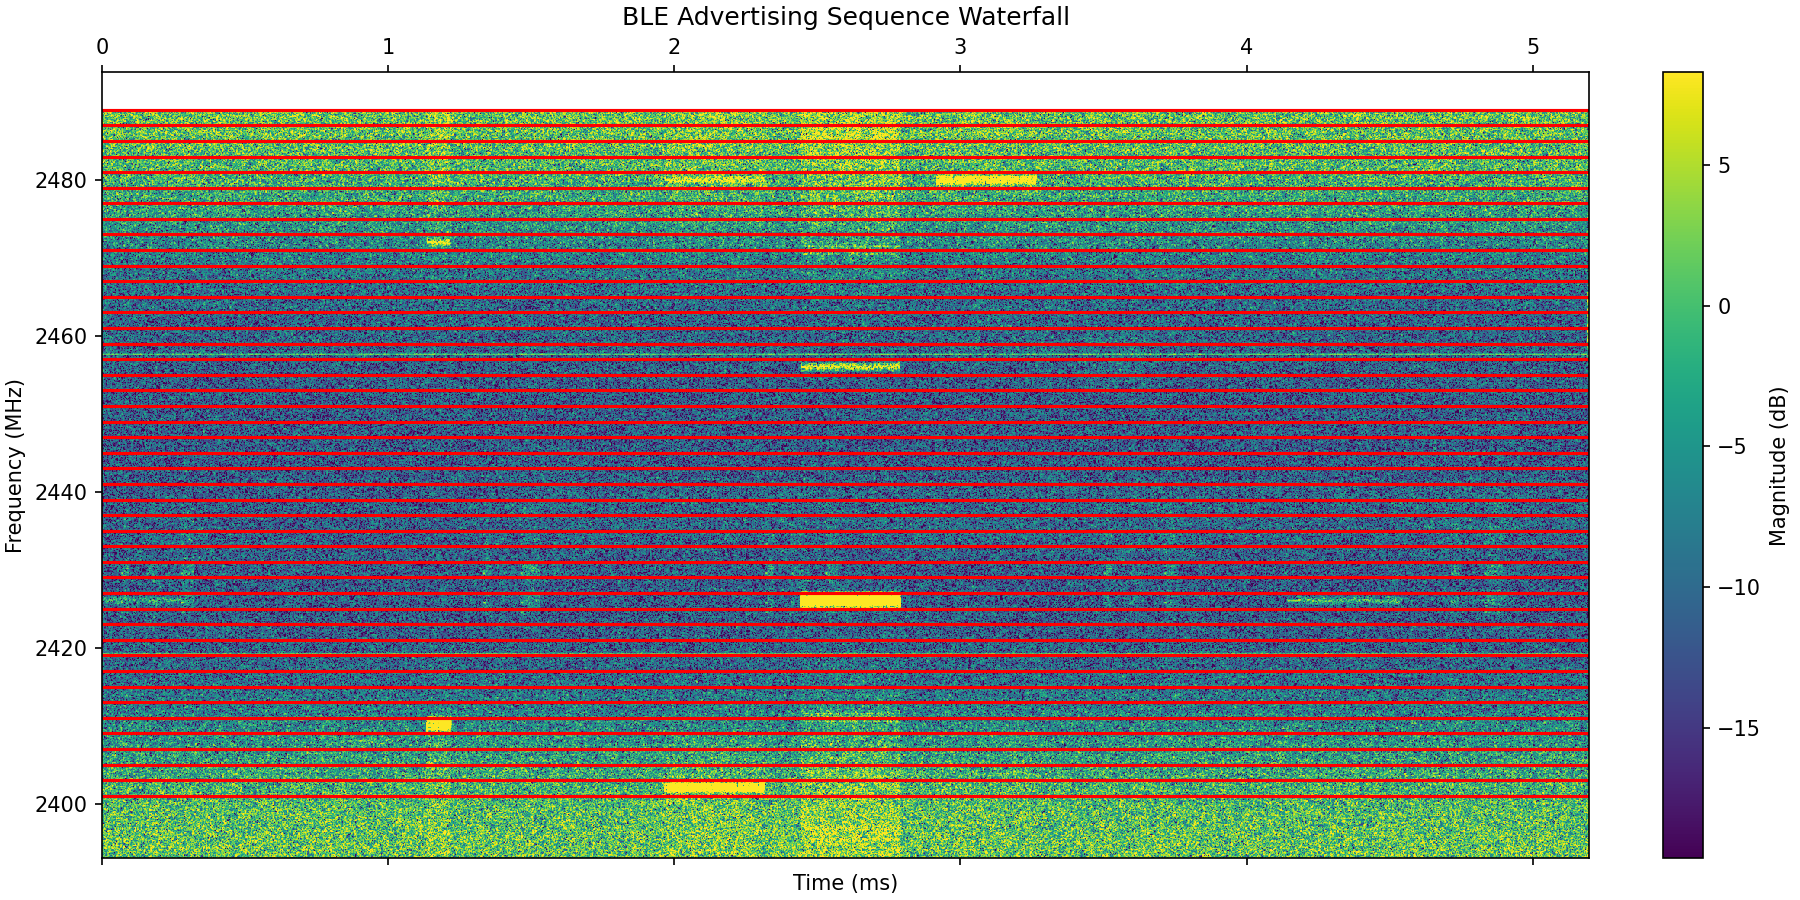
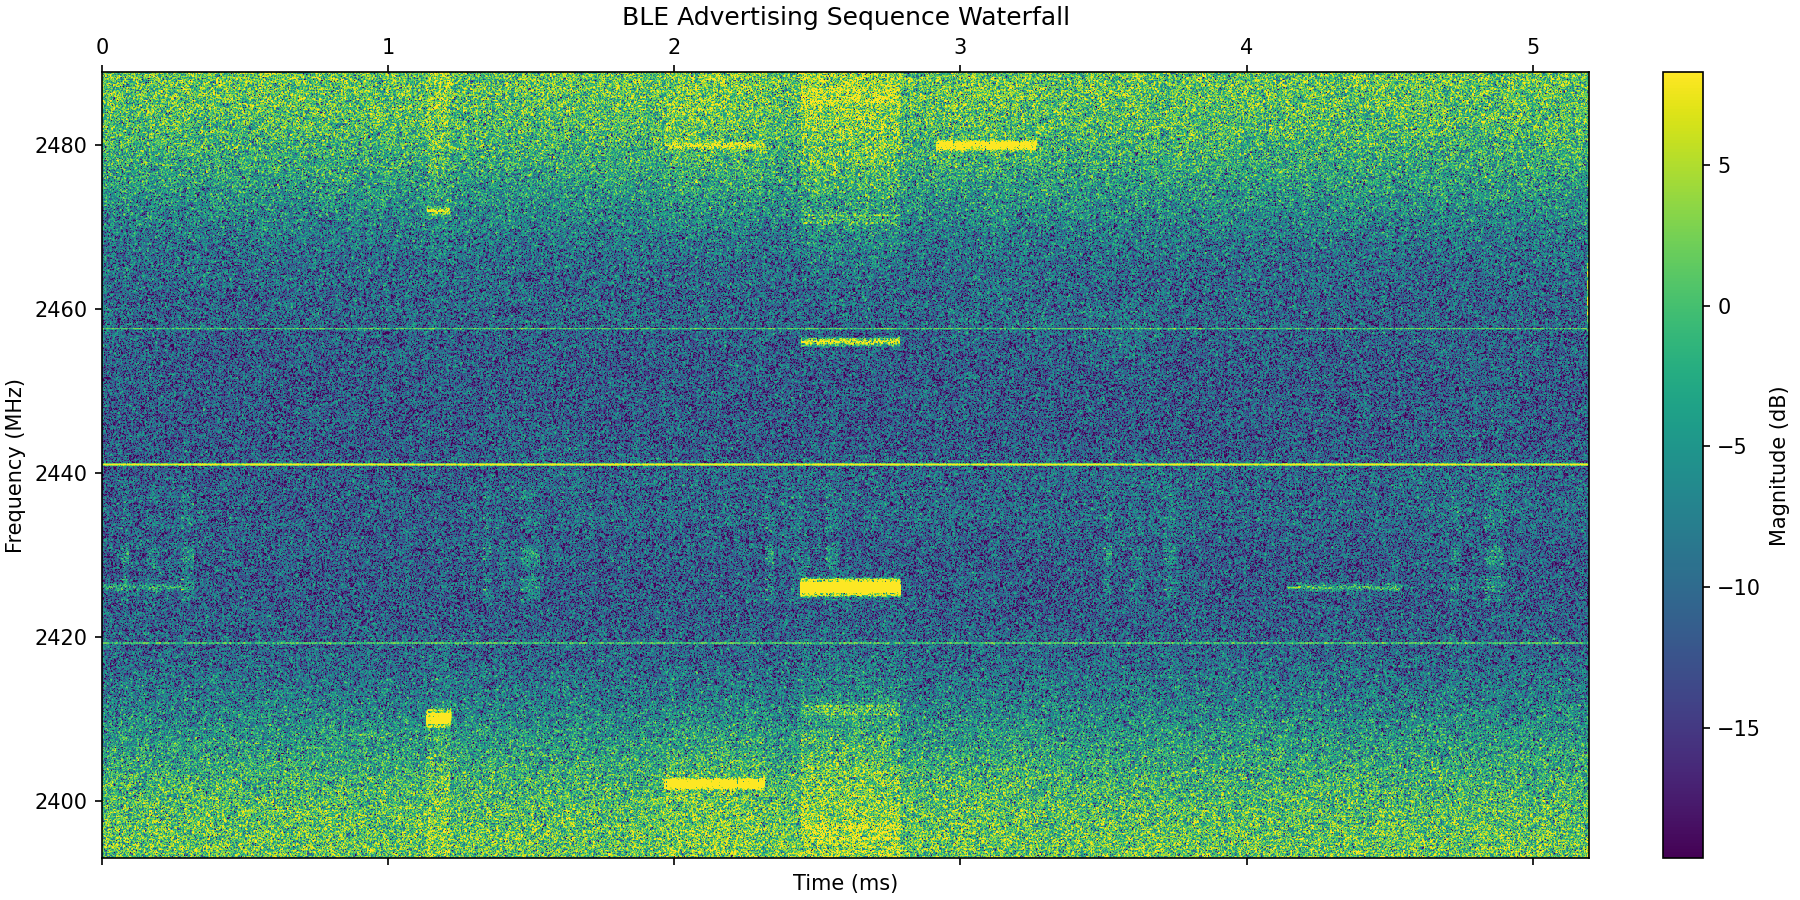
IQ imprefection.

diff --git a/_drafts/2026-02-08-Polyphase-Filter-Banks.md b/_drafts/2026-02-08-Polyphase-Filter-Banks.md
@@ -47,12 +47,31 @@ the following characteristics:
 * sample rate: 96 MHz
 * quadrature I/Q sampling
 
-
-
+We can create a 
+[waterfall plot](https://en.wikipedia.org/wiki/Waterfall_plot) 
+of this, where the X-axis shows the time and the Y axis the 
+[short time Fourier transform (STFT)](https://en.wikipedia.org/wiki/Short-time_Fourier_transform).
 
 [![BLE Waterfall Plot](/assets/polyphase/ble/ble_input_data_waterfall.png)](/assets/polyphase/ble/ble_input_data_waterfall.png)
 *(Click to enlarge)*
 
+We can see a thin bright line at the 2441 MHz center frequency. This is a common artifact of the 
+imperfect SDR hardware. It could be caused by local oscillator leakage or an imbalance between the 
+I and Q channels of the quadrature AD converters, or both.
+
+In this video, harris talks about how DC is often problematic, and a reason to have channel with an
+offset so that none of the channel center frequencies coincides with DC. I'm pretty sure that is
+one of the reasons why.
+
+We can also see some symmetry around the 2441 MHz line. For example, there's a short burst around
+1.1 ms at 2415 Mhz and weaker version 2467 MHz. This weaker version isn't real either, but a
+spectral mirrom image that's cause by imbalance between the I and the Q channel: their phase shift
+might not be exactly 90 degrees or they might have a slight different gain on their way to the ADCs.
+This is another topics that harris talks about: if possible, use a single double-speed ADC and do
+all the I/Q handling in the mathematically perfect digital domain.
+
+[![BLE Waterfall Plot with Channels](/assets/polyphase/ble/ble_input_data_waterfall_bars.png)](/assets/polyphase/ble/ble_input_data_waterfall_bars.png)
+*(Click to enlarge)*
 
 [![BLE Channel 33 decoding with 1 MHz heterodyne before channelization](/assets/polyphase/ble/chan_33_time_plot_het_pre.svg)](/assets/polyphase/ble/chan_33_time_plot_het_pre.svg)
 *(Click to enlarge)*
